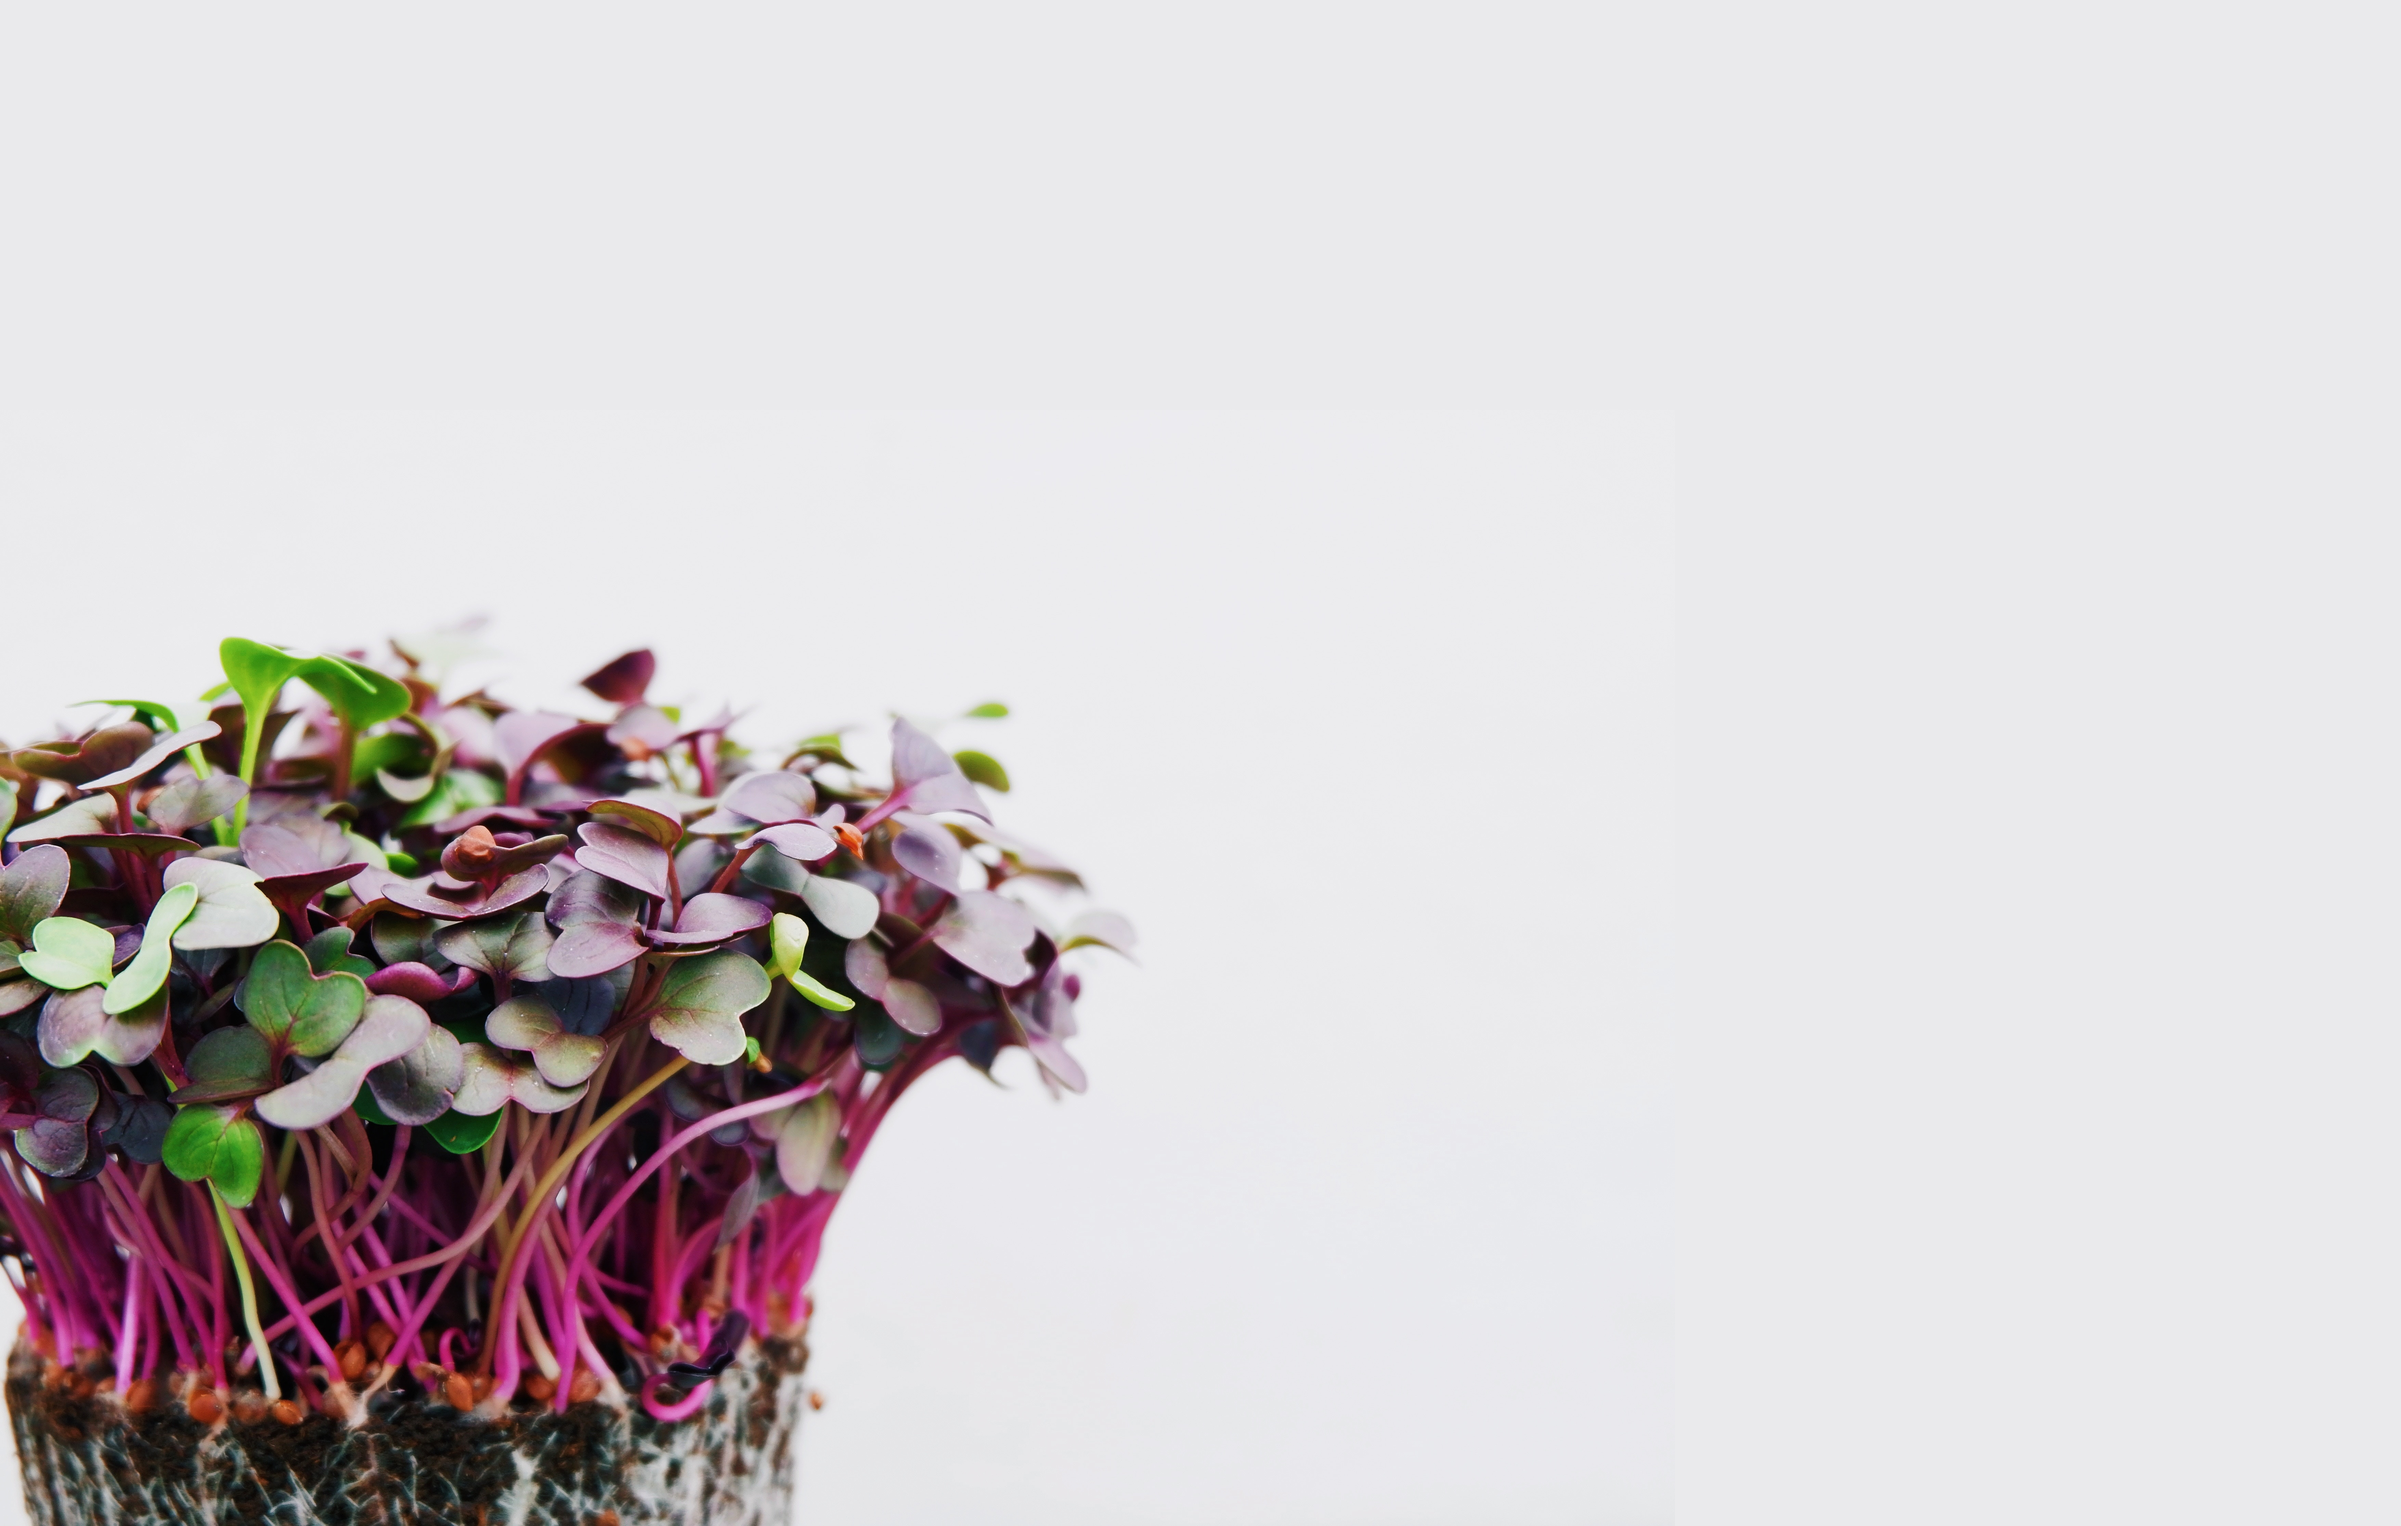
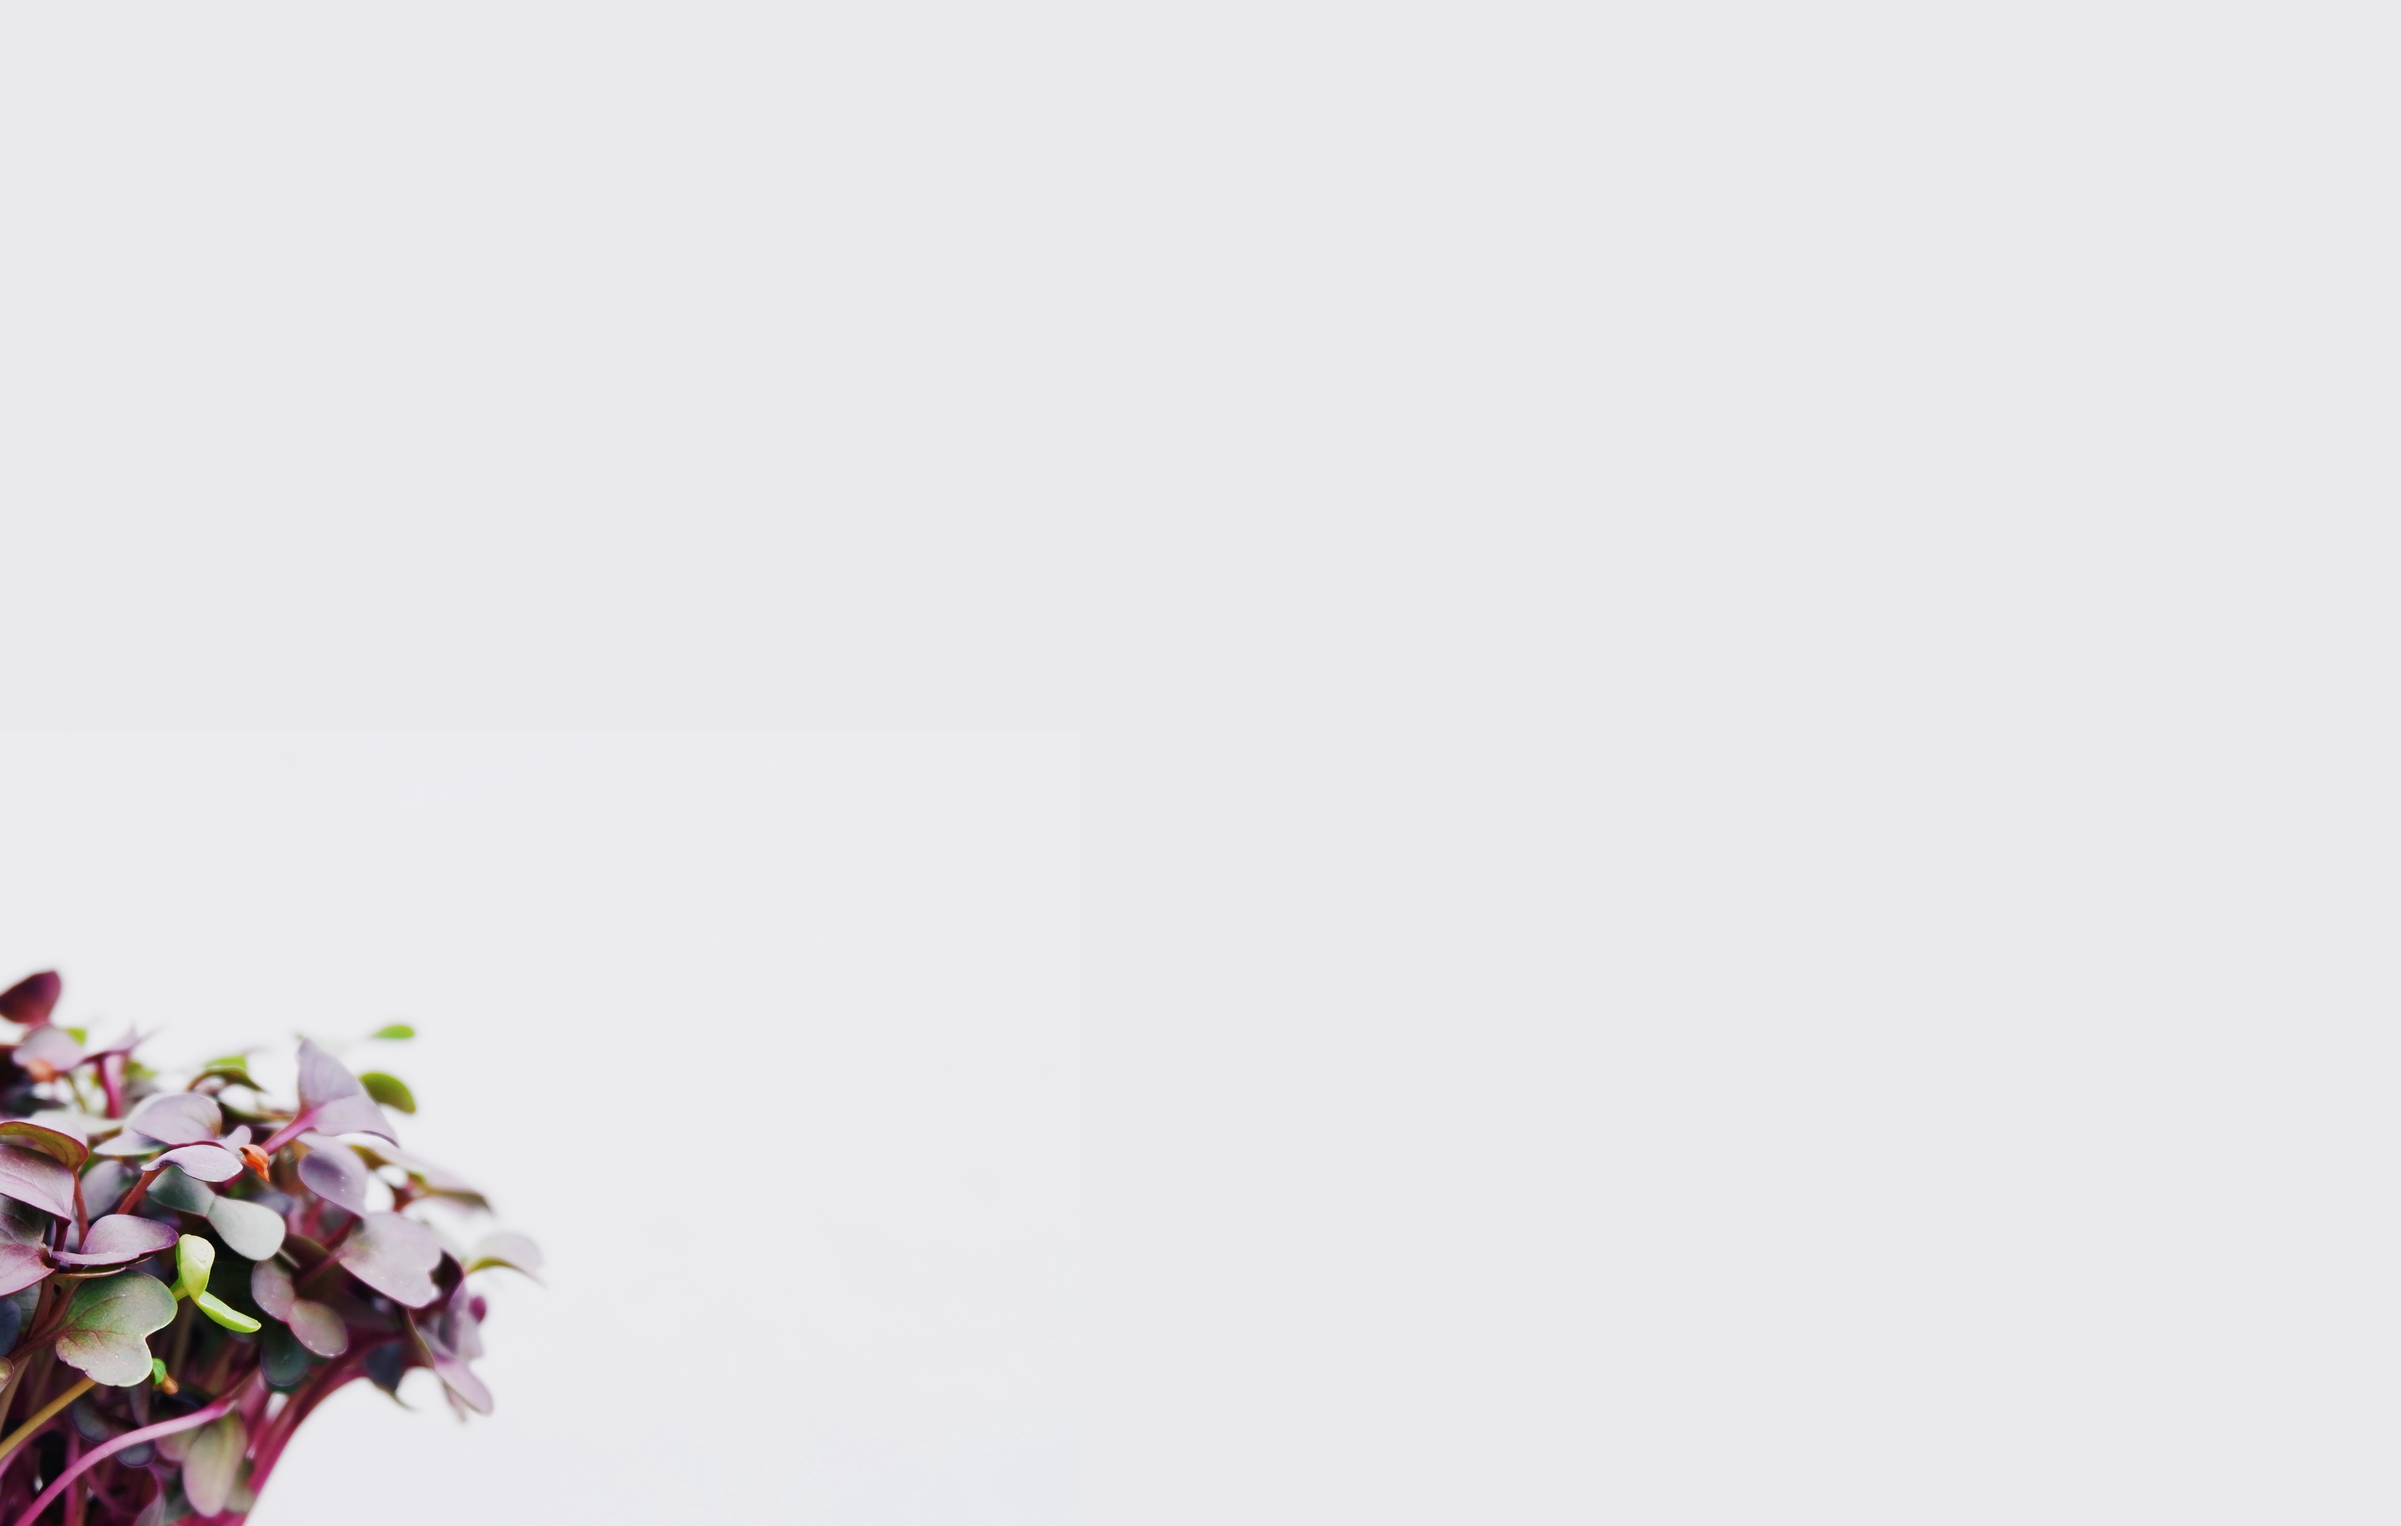
image updates

Changed region(s): [[0.0, 0.405, 0.4681, 1.0]]

diff --git a/index.html b/index.html
@@ -92,9 +92,7 @@
 <section id="home-banner" style="background-image: url(img/b-1.jpg);">
   <div class="content">
     <div class="container"  data-wow-duration="1s"> <span class="wow fadeIn">Dcrazed says</span>
-    	 <div class="item"> <img src="img/team/01.jpg">
-            <h5>This book is a treatise on the theory of ethics, very popular during the Renaissance. The first line of Lorem Ipsum, "Lorem ipsum dolor sit amet..", comes from a line in section 1.10.32.</h5>
-            <p><strong>Dean Martin</strong> CEO Acme Inc.</p>
+    	 <div class="item"> <img src="img/theplantbearlogo.png">
           </div>
       <!-- <h1 class="wow fadeInUp">We put true <span>focus</span> on our design <span>process</span>, the concept, prototypes and <span>design</span>. </h1> -->
     </div>
